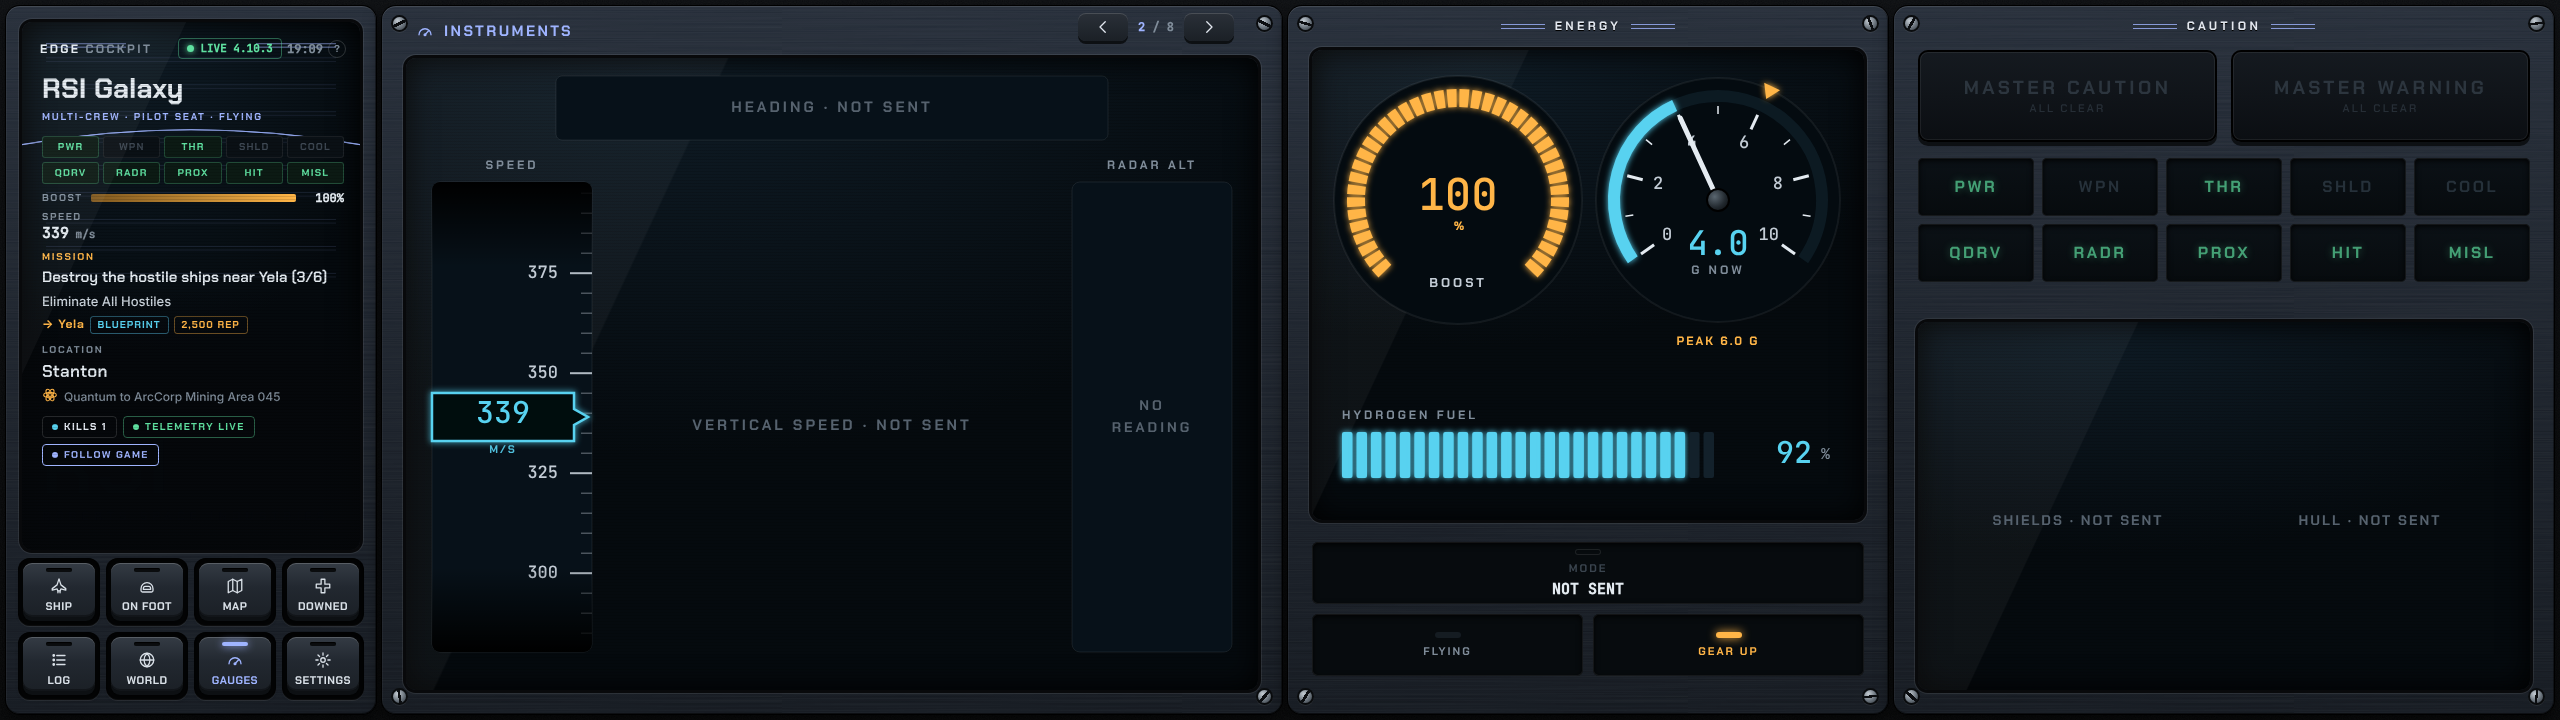
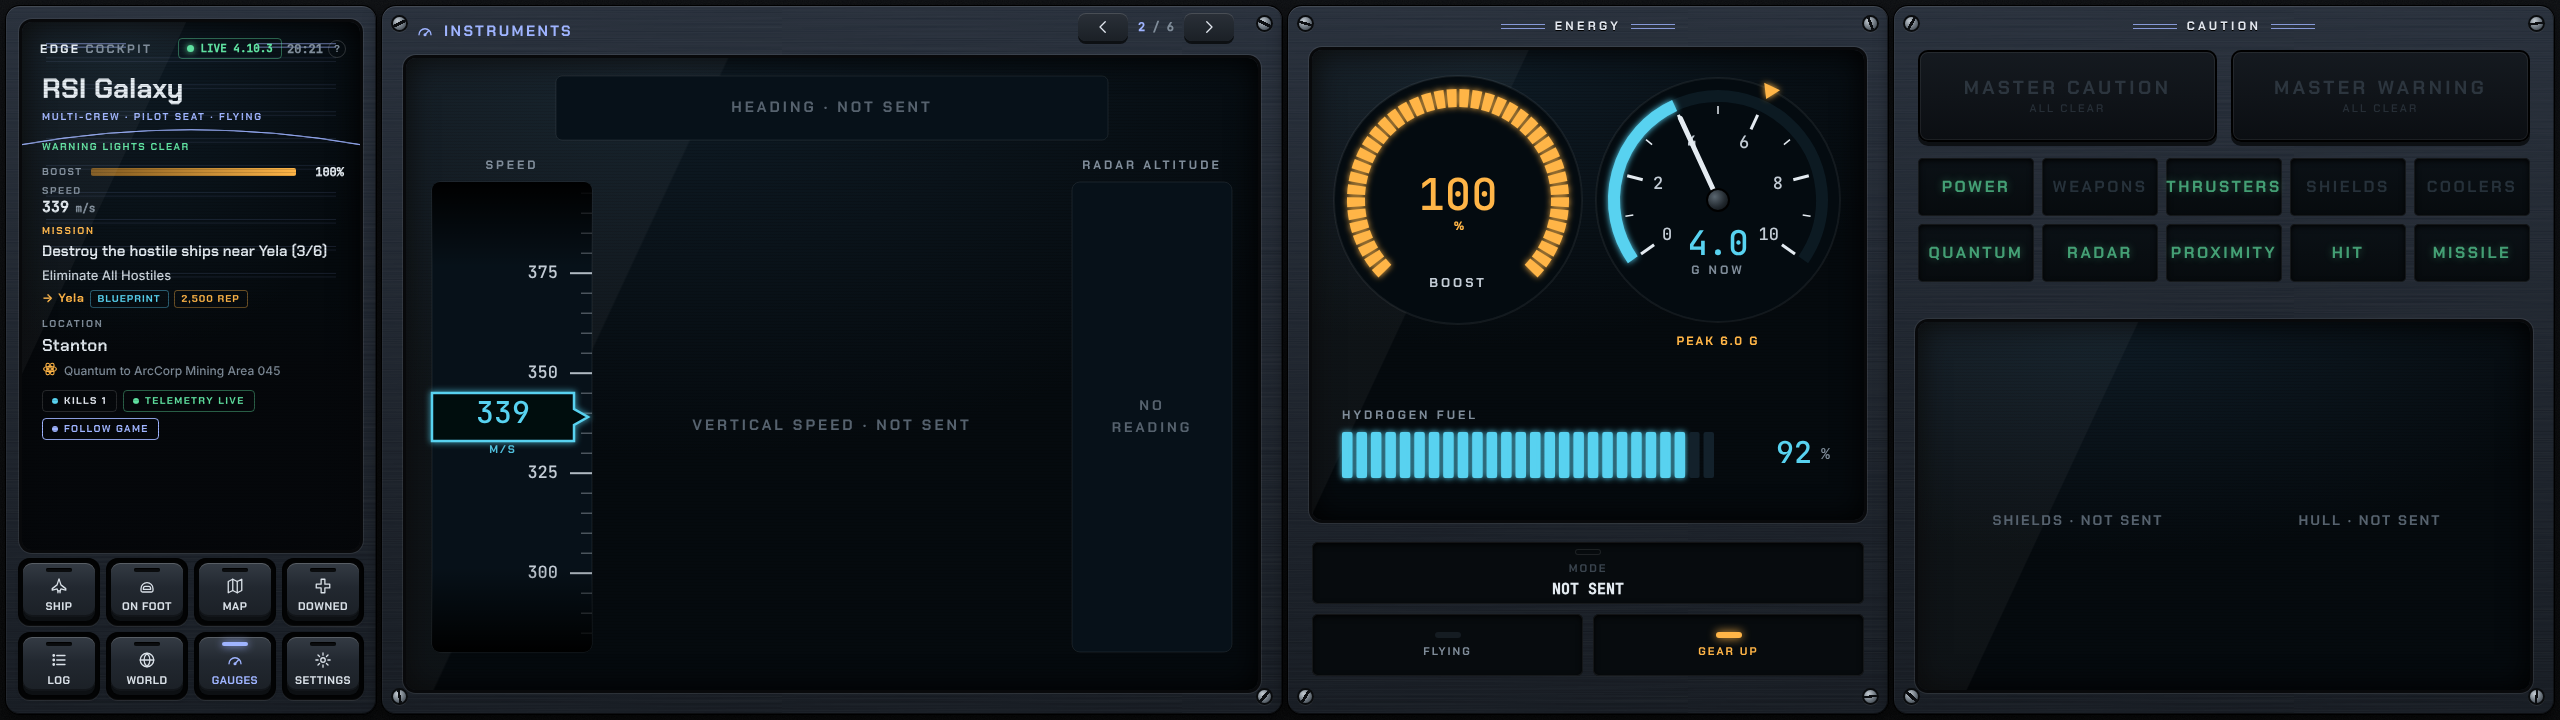
Version 0.11.1: lighter gauges, only pages the game can fill, shield and hull trend (#84)
Claude-Session: https://claude.ai/code/session_019a7Xd6PWDAJC9hhy9nMkfh

diff --git a/site/index.html b/site/index.html
@@ -93,7 +93,7 @@
   <article class="feat">
     <div class="feat-text">
       <h3>Gauges from live data</h3>
-      <p>With telemetry live, a Gauges softkey opens eight instrument pages: Ship, Instruments, Approach, Systems, Combat, Suit, Quantum and Turret. Tapes, dials and lamps show only what the game sends; the rest reads Not sent. The Ship page turns your ship's 3D model from FleetYards with a finger, wrapped in a shield bubble that glows with the shield level, with the paint of your choice. Guns the game names come with their rated stats from the Star Citizen Wiki. Your own pages can show live values as gauges too.</p>
+      <p>With telemetry live, a Gauges softkey opens eight instrument pages: Ship, Instruments, Approach, Systems, Combat, Suit, Quantum and Turret. Tapes, dials and lamps show only what the game sends; the rest reads Not sent, and pages the game can't fill stay out of the swipe. On 5.0, shields show how fast they're moving and when they'll be empty or full. The Ship page turns your ship's 3D model from FleetYards with a finger, wrapped in a shield bubble that glows with the shield level, with the paint of your choice. Guns the game names come with their rated stats from the Star Citizen Wiki. Your own pages can show live values as gauges too.</p>
     </div>
     <a class="shot" href="img/panel-gauges.png"><img src="img/panel-gauges.png" width="2560" height="720" loading="lazy" alt="Instruments page from an RSI Galaxy in flight: speed tape, boost and G meters, hydrogen, the ten warning lights"></a>
   </article>

diff --git a/README.md b/README.md
@@ -69,7 +69,7 @@ Star Citizen can share your ship's state with apps on your PC. **Settings > Game
 - Switches show the game's own state: power, thrusters, shields, weapons, gear, VTOL, lights, decoupled, speed limiter, G-safe, ESP, proximity assist, stability, gravity and wind compensation, advanced HUD, light amplification, SCM or NAV, gimbals, staggered fire. Toggles get a lamp.
 - The status display shows the ten warning lights, shields, hull, boost, speed, radar altitude and vertical speed, as far as your game version sends them (4.10 leaves out shields, hull and the altitudes); decoy and noise keys show what's left, the gun placard how many guns are ready. On foot or in EVA: your vitals.
 - On 5.0, a tap goes to the game directly when it takes the action. Anything it refuses goes out as your key. Keys you haven't bound still work this way, marked GAME. 4.10 only shares state.
-- **Gauges** (a softkey shown only while telemetry is live) opens eight instrument pages: Ship, Instruments, Approach, Systems, Combat, Suit, Quantum and Turret. Tapes, dials and lamps draw only what the game sends; anything else reads Not sent or No reading. In a gunner seat the Turret page opens by itself.
+- **Gauges** (a softkey shown only while telemetry is live) opens eight instrument pages: Ship, Instruments, Approach, Systems, Combat, Suit, Quantum and Turret. Tapes, dials and lamps draw only what the game sends; anything else reads Not sent or No reading. Approach waits until the game sends radar altitude or vertical speed, and Turret appears in a gunner seat, where it opens by itself. **Settings > Game link > Gauge pages** hides any page. On 5.0, shields show their rate and time to empty or full, and hull the last hit.
 - **Ship** turns your ship's 3D model from FleetYards with a finger: a shield bubble that glows with the shield level, the hull tinted as it drops, dark with the power plant off, landed or flight model by the gear. Paint is your pick (the game doesn't say which you fly). Guns the game names get a card with their rated stats from the [Star Citizen Wiki](https://api.star-citizen.wiki), marked Rated and the game version they're for.
 - Page builder: a status screen can show a live value (speed, radar altitude, heading, shields, hull, hydrogen, boost, G, decoys and more) as a gauge.
 

diff --git a/CHANGELOG.md b/CHANGELOG.md
@@ -1,5 +1,11 @@
 # Changelog
 
+## 0.11.1
+
+- **Lighter on your PC.** Gauge pages now change only the parts that moved: a needle turns, a number updates, and the rest of the drawing stays put. The Instruments page costs about 40 % less per update, and the status screen's telemetry block about 20 % less. The 3D Ship page redraws only when something you can see changes, so a still ship costs a small fraction of what it did, and it no longer downloads the model again for every update that arrives while it loads.
+- **Only pages the game can fill.** Approach joins the swipe once the game sends radar altitude or vertical speed (4.10 sends neither), and Turret only in a gunner seat. **Settings > Game link > Gauge pages** takes any page out of the swipe or puts it back. The page count counts only the pages shown.
+- **Which way the fight is going (5.0).** Shields show how fast they're falling or recharging and about when they'll be empty or full. Hull shows when the last hit landed and how much it took. The shield bar on the status screen shows ▼ or ▲ while shields move.
+
 ## 0.11.0
 
 Game telemetry and the Gauges pages were also checked against 5.0 PTU recordings.
